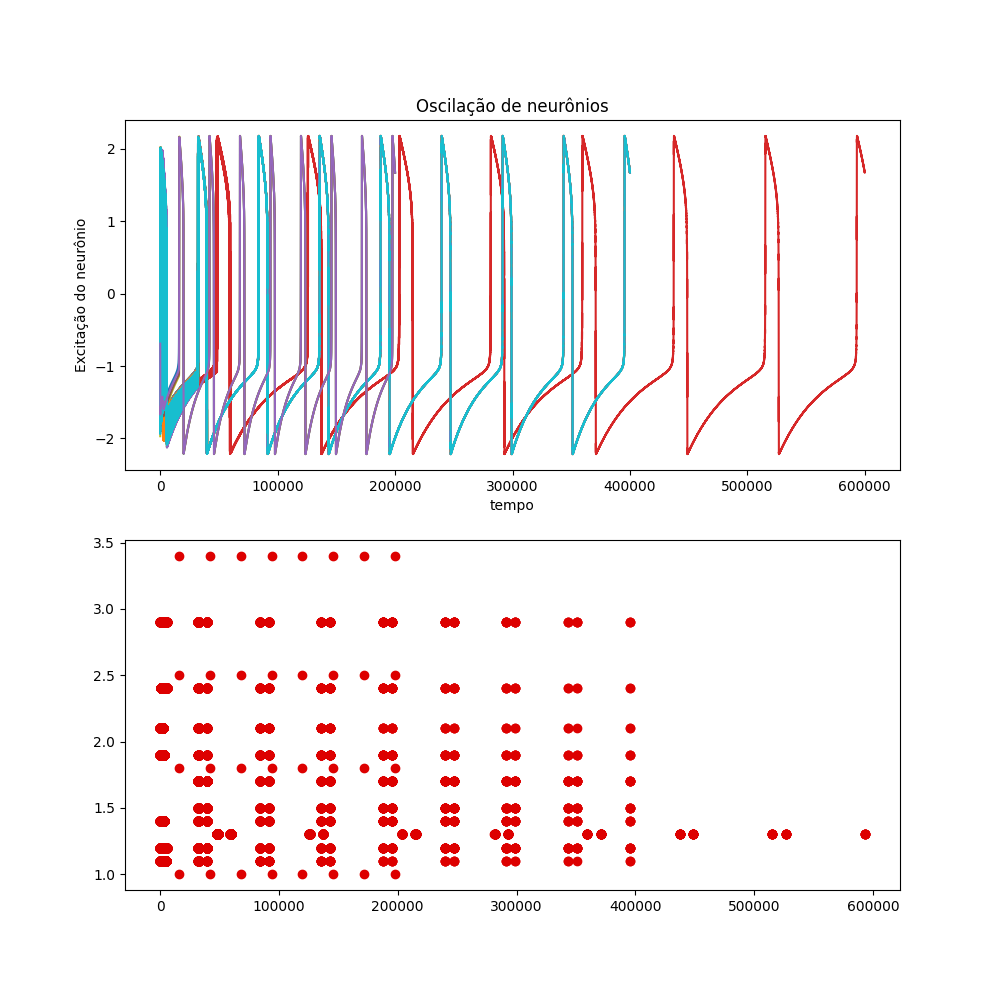
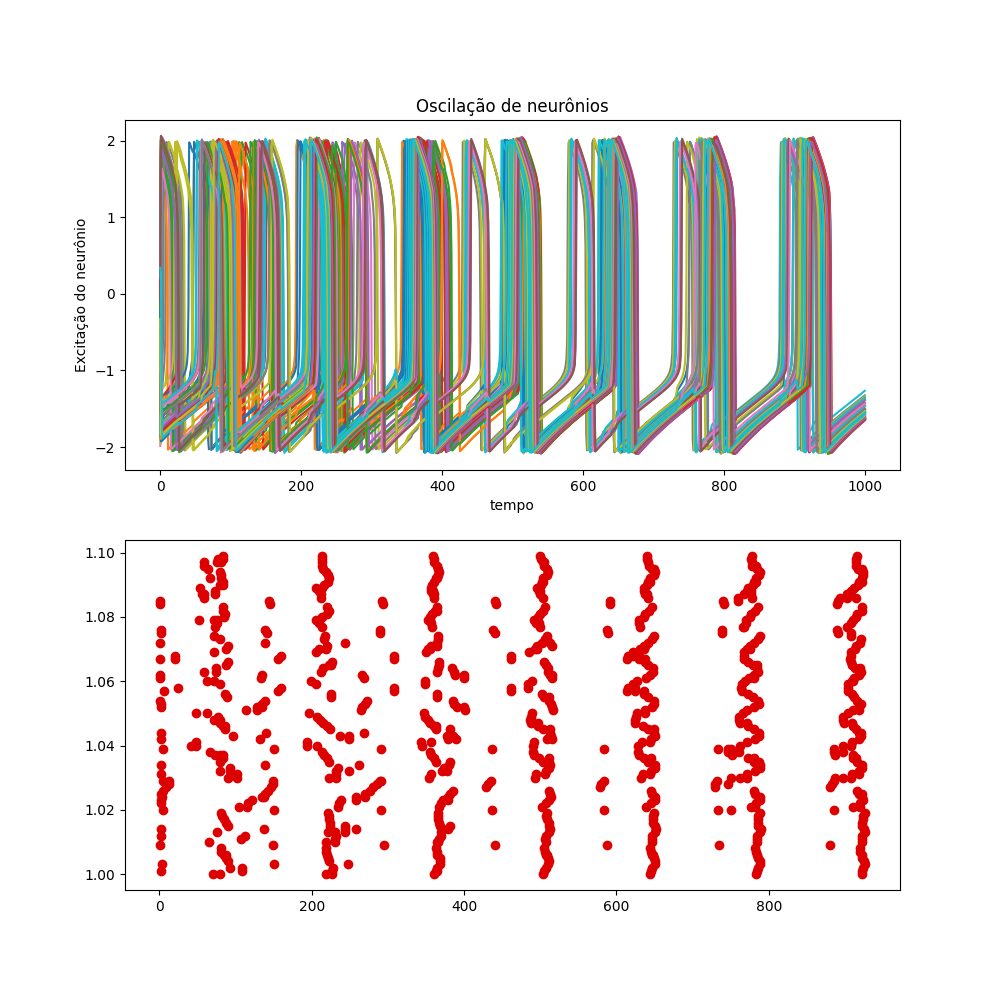
corrigida a funcionalidade do algoritmo

diff --git a/src/lib.py b/src/lib.py
@@ -5,7 +5,6 @@ from matplotlib import pyplot as plt
 from tqdm import tqdm
 from os.path import exists
 
-
 def H(v):
     """Retorna 1 se o parâmetro for maior ou igual a um limiar mínimo
 
@@ -17,7 +16,6 @@ def H(v):
     """
   
     return 1 if v >= 0 else 0
-  
 
 def FindName():
     for i in range(100):
@@ -40,23 +38,36 @@ def ShowData(content, t=0.5, save=True, name=True):
     ax1.set_title('Oscilação de neurônios')
     ax1.set_xlabel('tempo')
     ax1.set_ylabel('Excitação do neurônio')
-    for i in range(len(content)):
-        ax1.plot(content[i])
 
+    for j in range(len(content)):
+        for k in range(len(content[j])):
+            ax1.plot(content[j][k])
+
+    [[[1]]]
+
+    print(len(content))
     discretizado = []
-    for i in range(len(content)):
+    for j in range(len(content)):
         discretizado.append([])
-        for j in range(len(content[i])):
-            discretizado[i].append(1 + 0.1 * i if content[i][j] >= t and content [i][j-1] < t else None)
-
+        for k in range(len(content[j])):
+            discretizado[j].append([])
+            for i in range(len(content[j][k])):
+                if content[j][k][i] >= t and content[j][k][i] > content[j][k][i - 1] and content[j][k][i] > content[j][k][i + 1]:
+                    discretizado[j][k].append(1 + 0.01 * j + 0.001 * k)
+                else:
+                    discretizado[j][k].append(None)
+                    
     ax2 = fig.add_subplot(axgrid[1, 0:])
-    for i in range(len(content)):
-        ax2.scatter(list(range(len(discretizado[i]))), discretizado[i], color='#DD0000')
-
+    for j in range(len(content)):
+        for k in range(len(content[j])):
+            ax2.scatter(list(range(len(discretizado[j][k]))), discretizado[j][k], color='#DD0000')
+    
     if save:
         plt.savefig("data/{}".format(FindName() if name == True else name))
     else:
         plt.show()
+
+
 
 
 def Simulate(DT=0.01, Tmax=1000, width=5, t=0.5, w=0.3, e=0.02, a=6, B=0.1, p=0, I=0.1, o=15, seed=10):
@@ -79,7 +90,6 @@ def Simulate(DT=0.01, Tmax=1000, width=5, t=0.5, w=0.3, e=0.02, a=6, B=0.1, p=0,
     Returns:
         list: dados da simulação
     """
-    print(seed)
     random.seed(seed)
     # Variáveis
     x = []
@@ -99,34 +109,33 @@ def Simulate(DT=0.01, Tmax=1000, width=5, t=0.5, w=0.3, e=0.02, a=6, B=0.1, p=0,
         dx.append([])
         dy.append([])
         S.append([])
+        lx.append([])
+        ly.append([])
         for j in range(width):
             x[i].append(round(random.uniform(-2, 0.4), 2))
             y[i].append(round(random.uniform(0, 4), 2))
             dx[i].append(0)
             dy[i].append(0)
             S[i].append(0)
-    for i in range(width ** 2):
-
-        lx.append([])
-        ly.append([])
-
+            lx[i].append([])
+            ly[i].append([])
 
     iterations = int(Tmax / DT)
 
     for i in tqdm(range(iterations)):
         for j in range(width):
             for k in range(width):
-                S[j][k] = w * (H(x[(j+1) % width][k]) + H(x[(j-1) % width][k]) + H(x[j][(k+1) % width]) + H(x[j][(k-1) % width]))
+                S[j][k] = w * (H(x[(j+1) % width][k] - t) + H(x[(j-1) % width][k] - t) + H(x[j][(k+1) % width] - t) + H(x[j][(k-1) % width] - t))
         for j in range(width):
             for k in range(width):
                 dx[j][k] = (3 * x[j][k] - x[j][k] ** 3 + 2 - y[j][k] + I + p + S[j][k] ) * DT
                 dy[j][k] = (e * ( a * ( 1 + math.tanh(x[j][k] / B)) - y[j][k])) * DT
 
-                if i % o == 0:
-                    lx[(j+1) * (k+1) - 1].append(round(x[j][k], 4))
-
                 x[j][k] += dx[j][k]
                 y[j][k] += dy[j][k]
+
+                if i % o == 0:
+                    lx[j][k].append(round(x[j][k], 4))
         
     return lx
  

diff --git a/src/main.py b/src/main.py
@@ -1,12 +1,12 @@
 from lib import *
 import time
+import matplotlib.pyplot as plt
 
 def main():
   #simulação exemplo
 
-  ShowData(Simulate(Tmax=200, w=0.5, o=10, seed=123234))
-  ShowData(Simulate(Tmax=200, w=0.5, o=10, seed=int(32452345)))
-  ShowData(Simulate(Tmax=200, w=0.5, o=10, seed=int(928734)))
+  ShowData(Simulate(Tmax=2000, w=0.2, o=100, width=20, seed=123234, I=0.5), save=True)
+
 
 if __name__ == "__main__":
   main()
